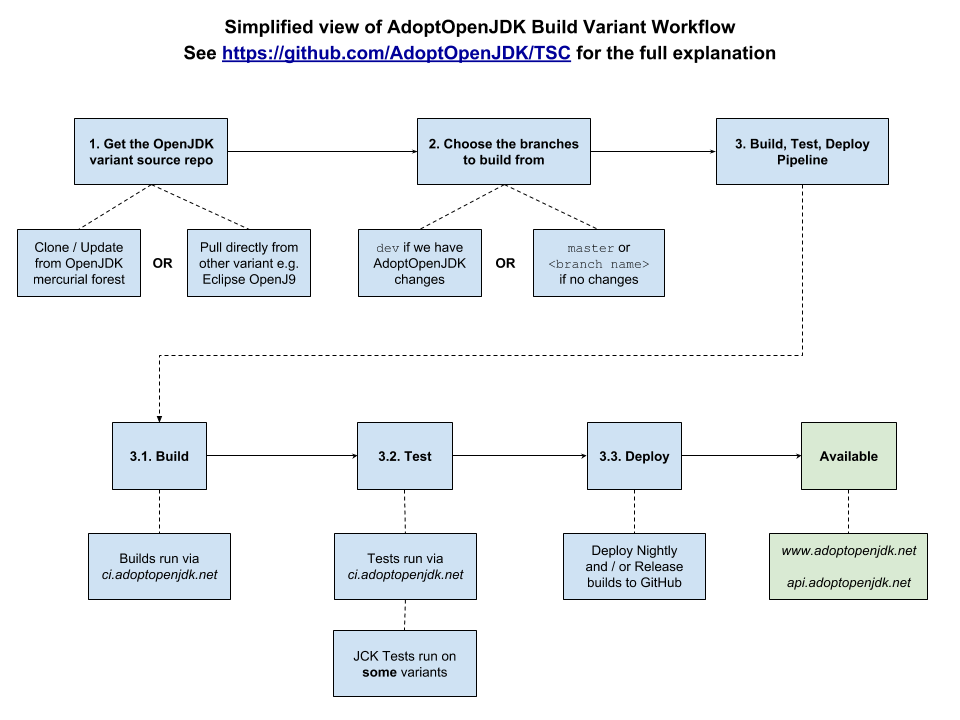
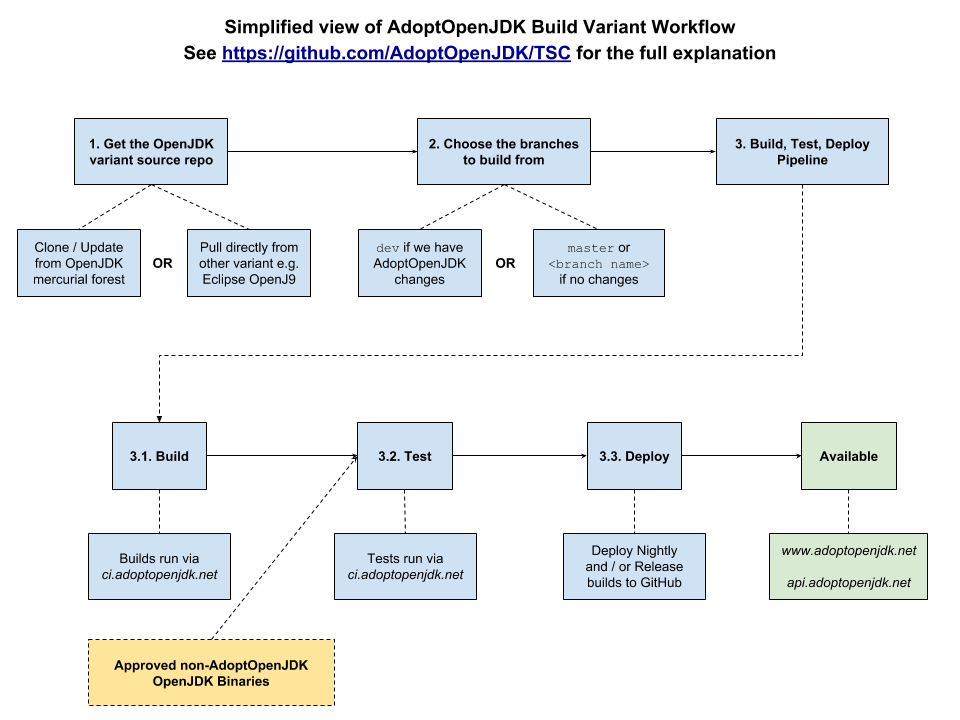
Add openjdk upstream (#74)
* Initial Contributing

* Initial cut of all of the repos listed

* add copy from George for backend

* Clarify role of hte TSC repo WRT to docs, issues and PRs

* Add workflow to the README

* Link in more resources

* Clarify pipelines

* overhaul of README following feedback

* Clarify source

* Formatting

* Formatting

* Formatting

* Formatting

* Clear up some TODOs and add amber

* Add joining org and teams

* Added docs on adding a new variant

* Add Jenkins label system

* minor updates to the TSC main doc detailing the platform costs and OpenJ9 branches

* add JCK to the TSC

* Add JCK10 repo

* Added homebrew repo

* Add repo diagram + security and moderation repos

* minor update to security structure

* more repo diagrams

* Add in workflow image

* Add in image links

* 10u

* take Geroge's diag

* Add Iced Tea Web

* Addopenjdk upstream repos

* typo

Changed region(s): [[0.0938, 0.8556, 0.5, 1.0]]

diff --git a/README.md b/README.md
@@ -34,6 +34,7 @@ changes.)
   * [TSC-confidential)](https://github.com/AdoptOpenJDK/TSC-confidential) - To hold any confidential information for the TSC, e.g. Sponsorship Agreements 
   * [security](https://github.com/AdoptOpenJDK/security) - A private repo for the security team
     * [moderation](https://github.com/AdoptOpenJDK/moderation) - A private repo for moderation requests
+    * [openjdk-security](https://github.com/AdoptOpenJDK/openjdk-security) - A private repo for (adopt)openjdk vulnerability investigations
     * [secrets](https://github.com/AdoptOpenJDK/secrets) - A private repo for secrets
   * [buzz](https://github.com/AdoptOpenJDK/buzz) - Community Outreach and Sponsors
 * [openjdk-infrastructure](https://github.com/AdoptOpenJDK/openjdk-infrastructure) - Infrastructure as Code and documentation for build farm hosts
@@ -90,6 +91,15 @@ API (and subsequently) website poll these repos to make binaries available.
 * [openjdk12-binaries](https://github.com/AdoptOpenJDK/openjdk12-binaries/) - AdoptOpenJDK nightly and release binaries for OpenJDK 12 (HotSpot VM and Eclipse OpenJ9 VM)
 * [openjdk-binaries](https://github.com/AdoptOpenJDK/openjdk-binaries/) - AdoptOpenJDK nightly and release binaries for OpenJDK (Latest) (HotSpot VM and Eclipse OpenJ9 VM)
 
+### OpenJDK binary repos
+
+These GitHub Repos are where builds from the OpenjDK update projects (led by 
+Red Hat) are published to. The API (and subsequently) website poll these repos 
+to make binaries available.
+
+* [openjdk8-upstream-binaries](https://github.com/AdoptOpenJDK/openjdk8-upstream-binaries/) - OpenJDK nightly and release binaries for OpenJDK 8 (HotSpot VM)
+* [openjdk11-upstream-binaries](https://github.com/AdoptOpenJDK/openjdk11-upstream-binaries/) - OpenJDK nightly and release binaries for OpenJDK 11 (HotSpot VM)
+
 ### Private repos
 
 Due to security or licensing concerns the following repos are private.  Please raise an issue on the
@@ -99,6 +109,7 @@ Due to security or licensing concerns the following repos are private.  Please r
 * [moderation](https://github.com/AdoptOpenJDK/moderation) - For holding moderation requests
 * [secrets](https://github.com/AdoptOpenJDK/secrets) - For holding some secrets
 * [security](https://github.com/AdoptOpenJDK/security) - For the security team
+* [openjdk-security](https://github.com/AdoptOpenJDK/openjdk-security) - A private repo for (adopt)openjdk vulnerability investigations
 * [openjdk-website-staging](https://github.com/AdoptOpenJDK/openjdk-staging-webiste) - for staging website PR's
 
 ## Workflow
@@ -158,6 +169,10 @@ sends the build jobs to the Jenkins followers based on a tagging system configur
 
 #### 3.2 Test
 
+Note that other OpenJDK binaries (such as the [openjdk8-upstream-binaries](https://github.com/AdoptOpenJDK/openjdk8-upstream-binaries/) and 
+[openjdk11-upstream-binaries](https://github.com/AdoptOpenJDK/openjdk11-upstream-binaries/)) can be put through pipelines 
+entering at this Test phase.
+
 [Tests](https://ci.adoptopenjdk.net/view/OpenJDK%20tests/) are run on the
 [Supported Test Platforms](https://docs.google.com/spreadsheets/d/1X4CCfvMoCgEavRbvejHrTvPnqj37MB-_C6LB6b8Akkc/edit?usp=sharing). The Jenkins leader
 sends the test jobs to the Jenkins followers based on a similar tagging system to build. See [openjdk-tests](https://github.com/AdoptOpenJDK/openjdk-tests) and
@@ -169,7 +184,6 @@ from [openjdk-systemtests](https://github.com/AdoptOpenJDK/openjdk-systemtests) 
 1. **Builds are external tested** - [External Tests](https://ci.adoptopenjdk.net/view/Test_external/) are executed and test results are posted to TODO
 1. **Builds are performance tested** - [Performance Tests](https://ci.adoptopenjdk.net/view/Test_perf/)
 from [bumblebench](https://github.com/AdoptOpenJDK/bumblebench) are executed and test results are posted to TODO
-
 
 #### 3.3 Deploy Binaries
 
